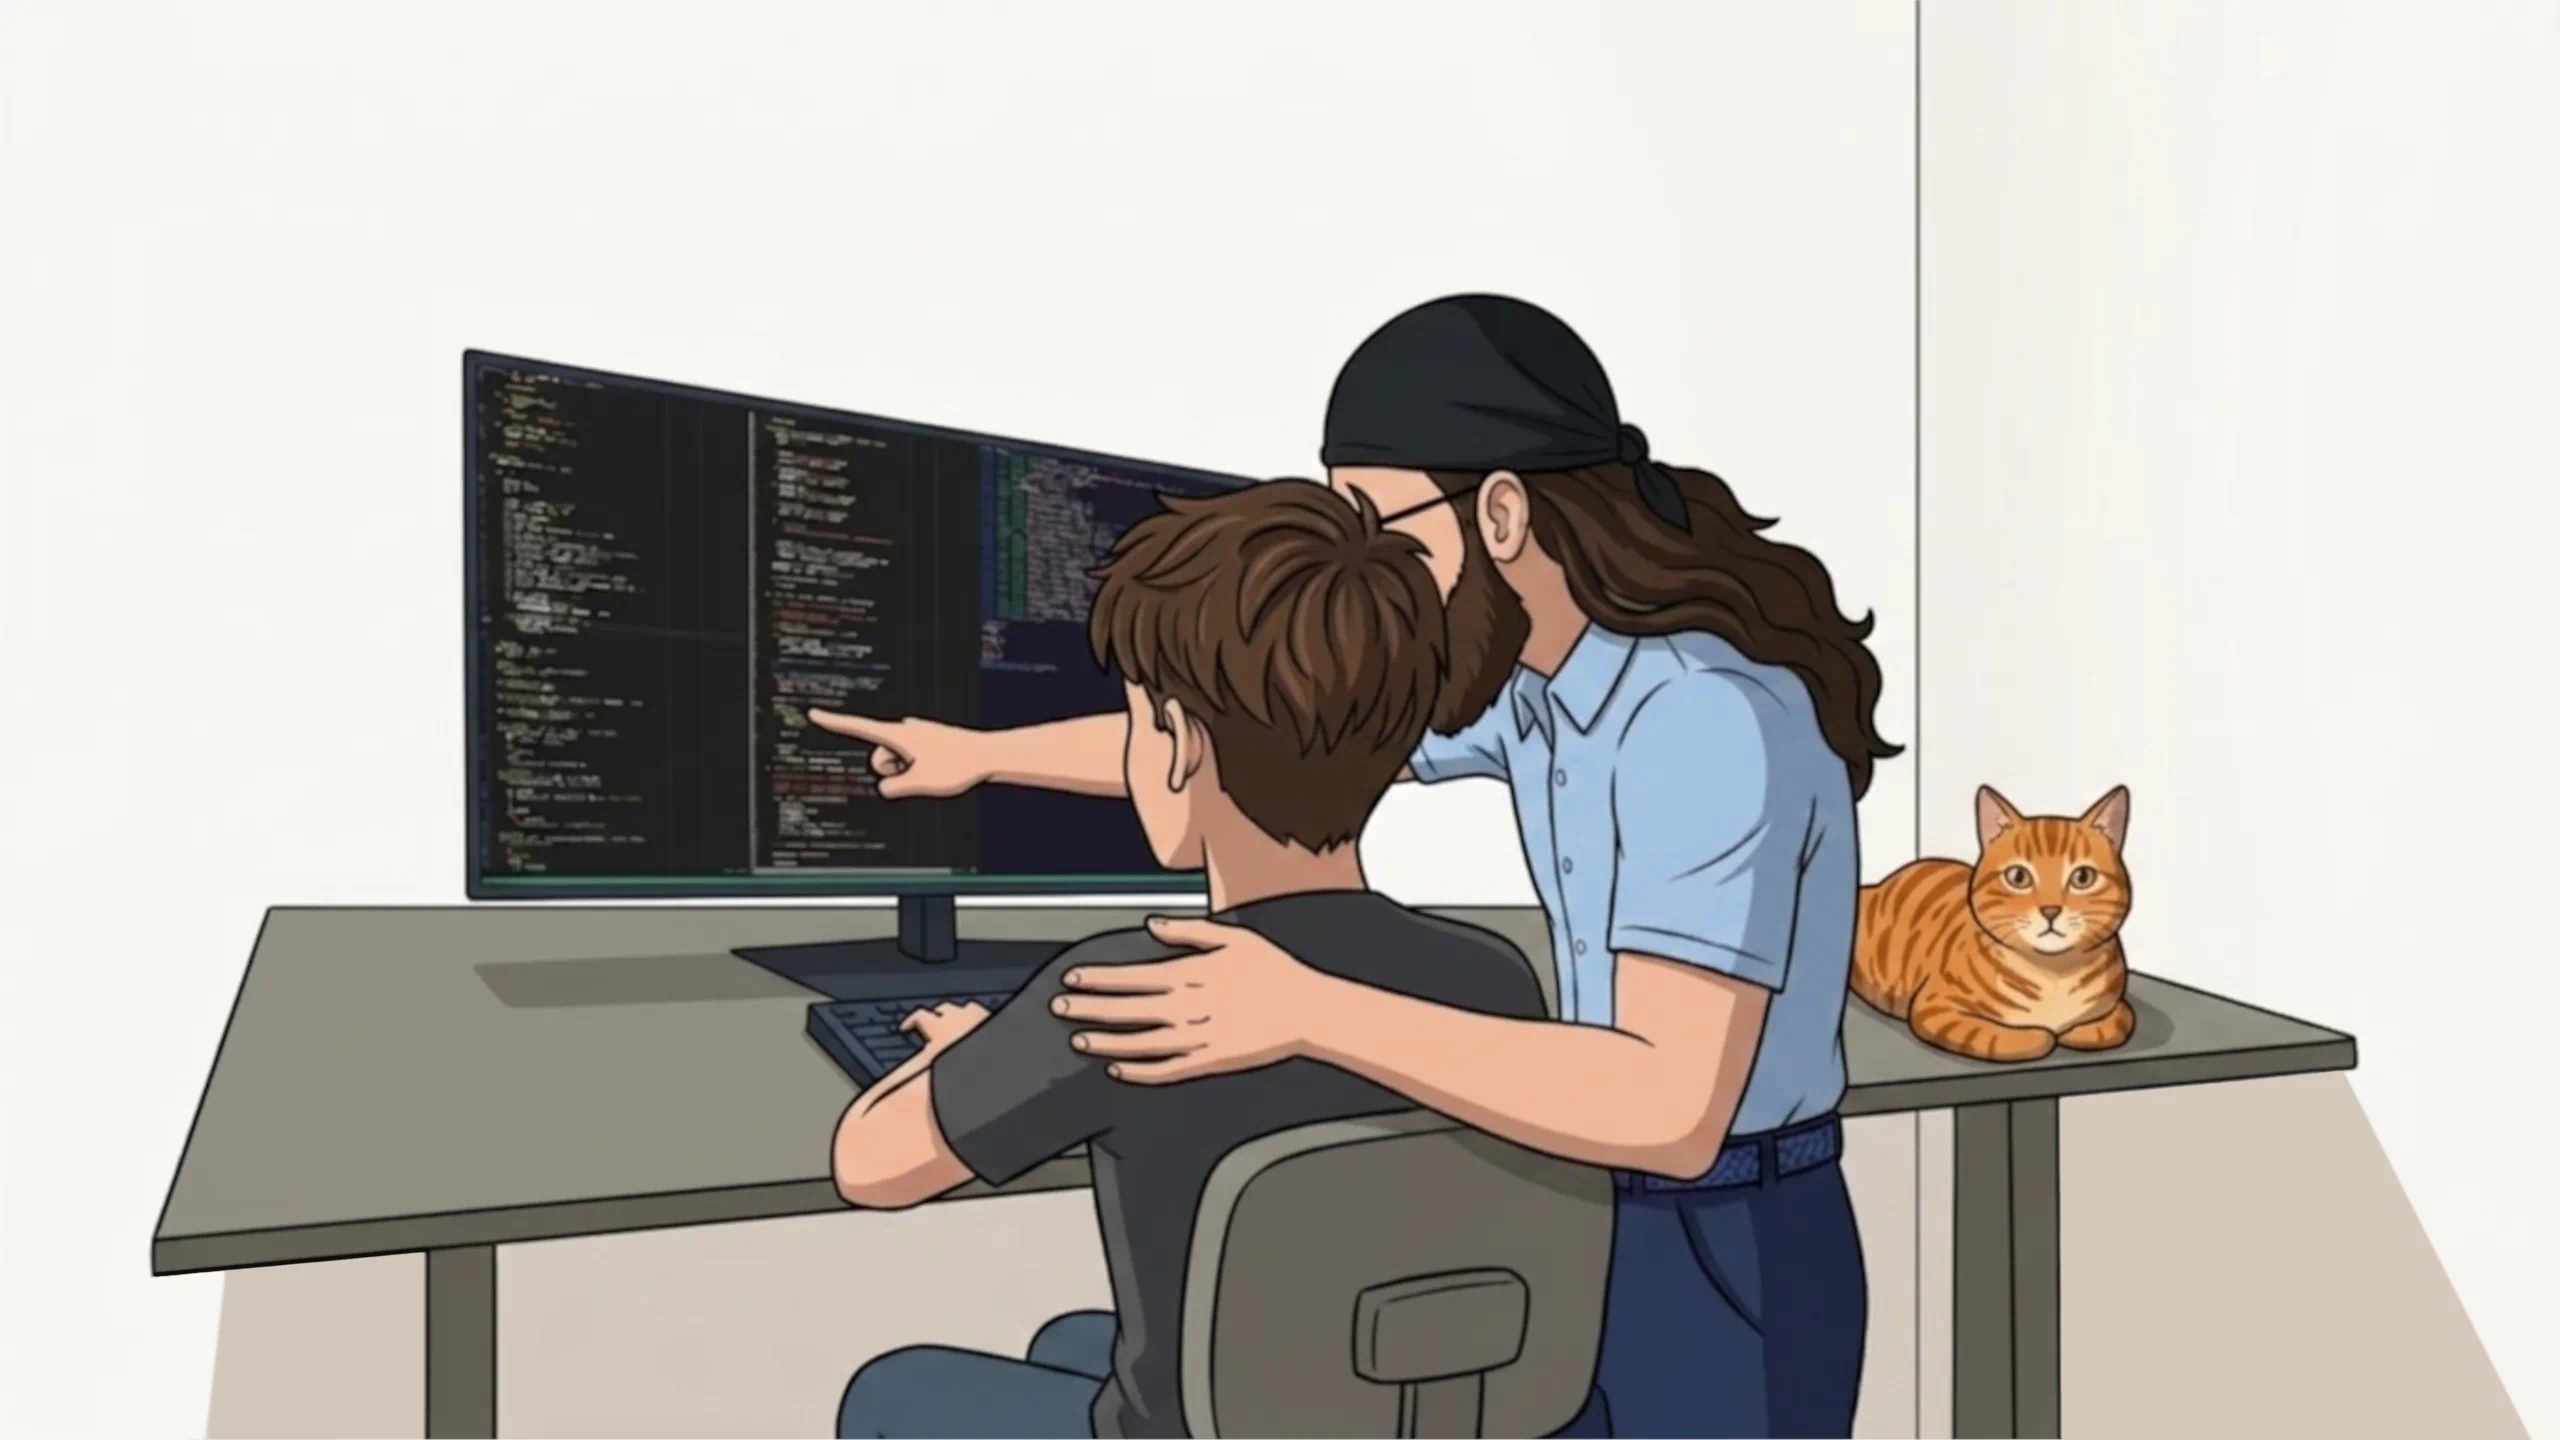
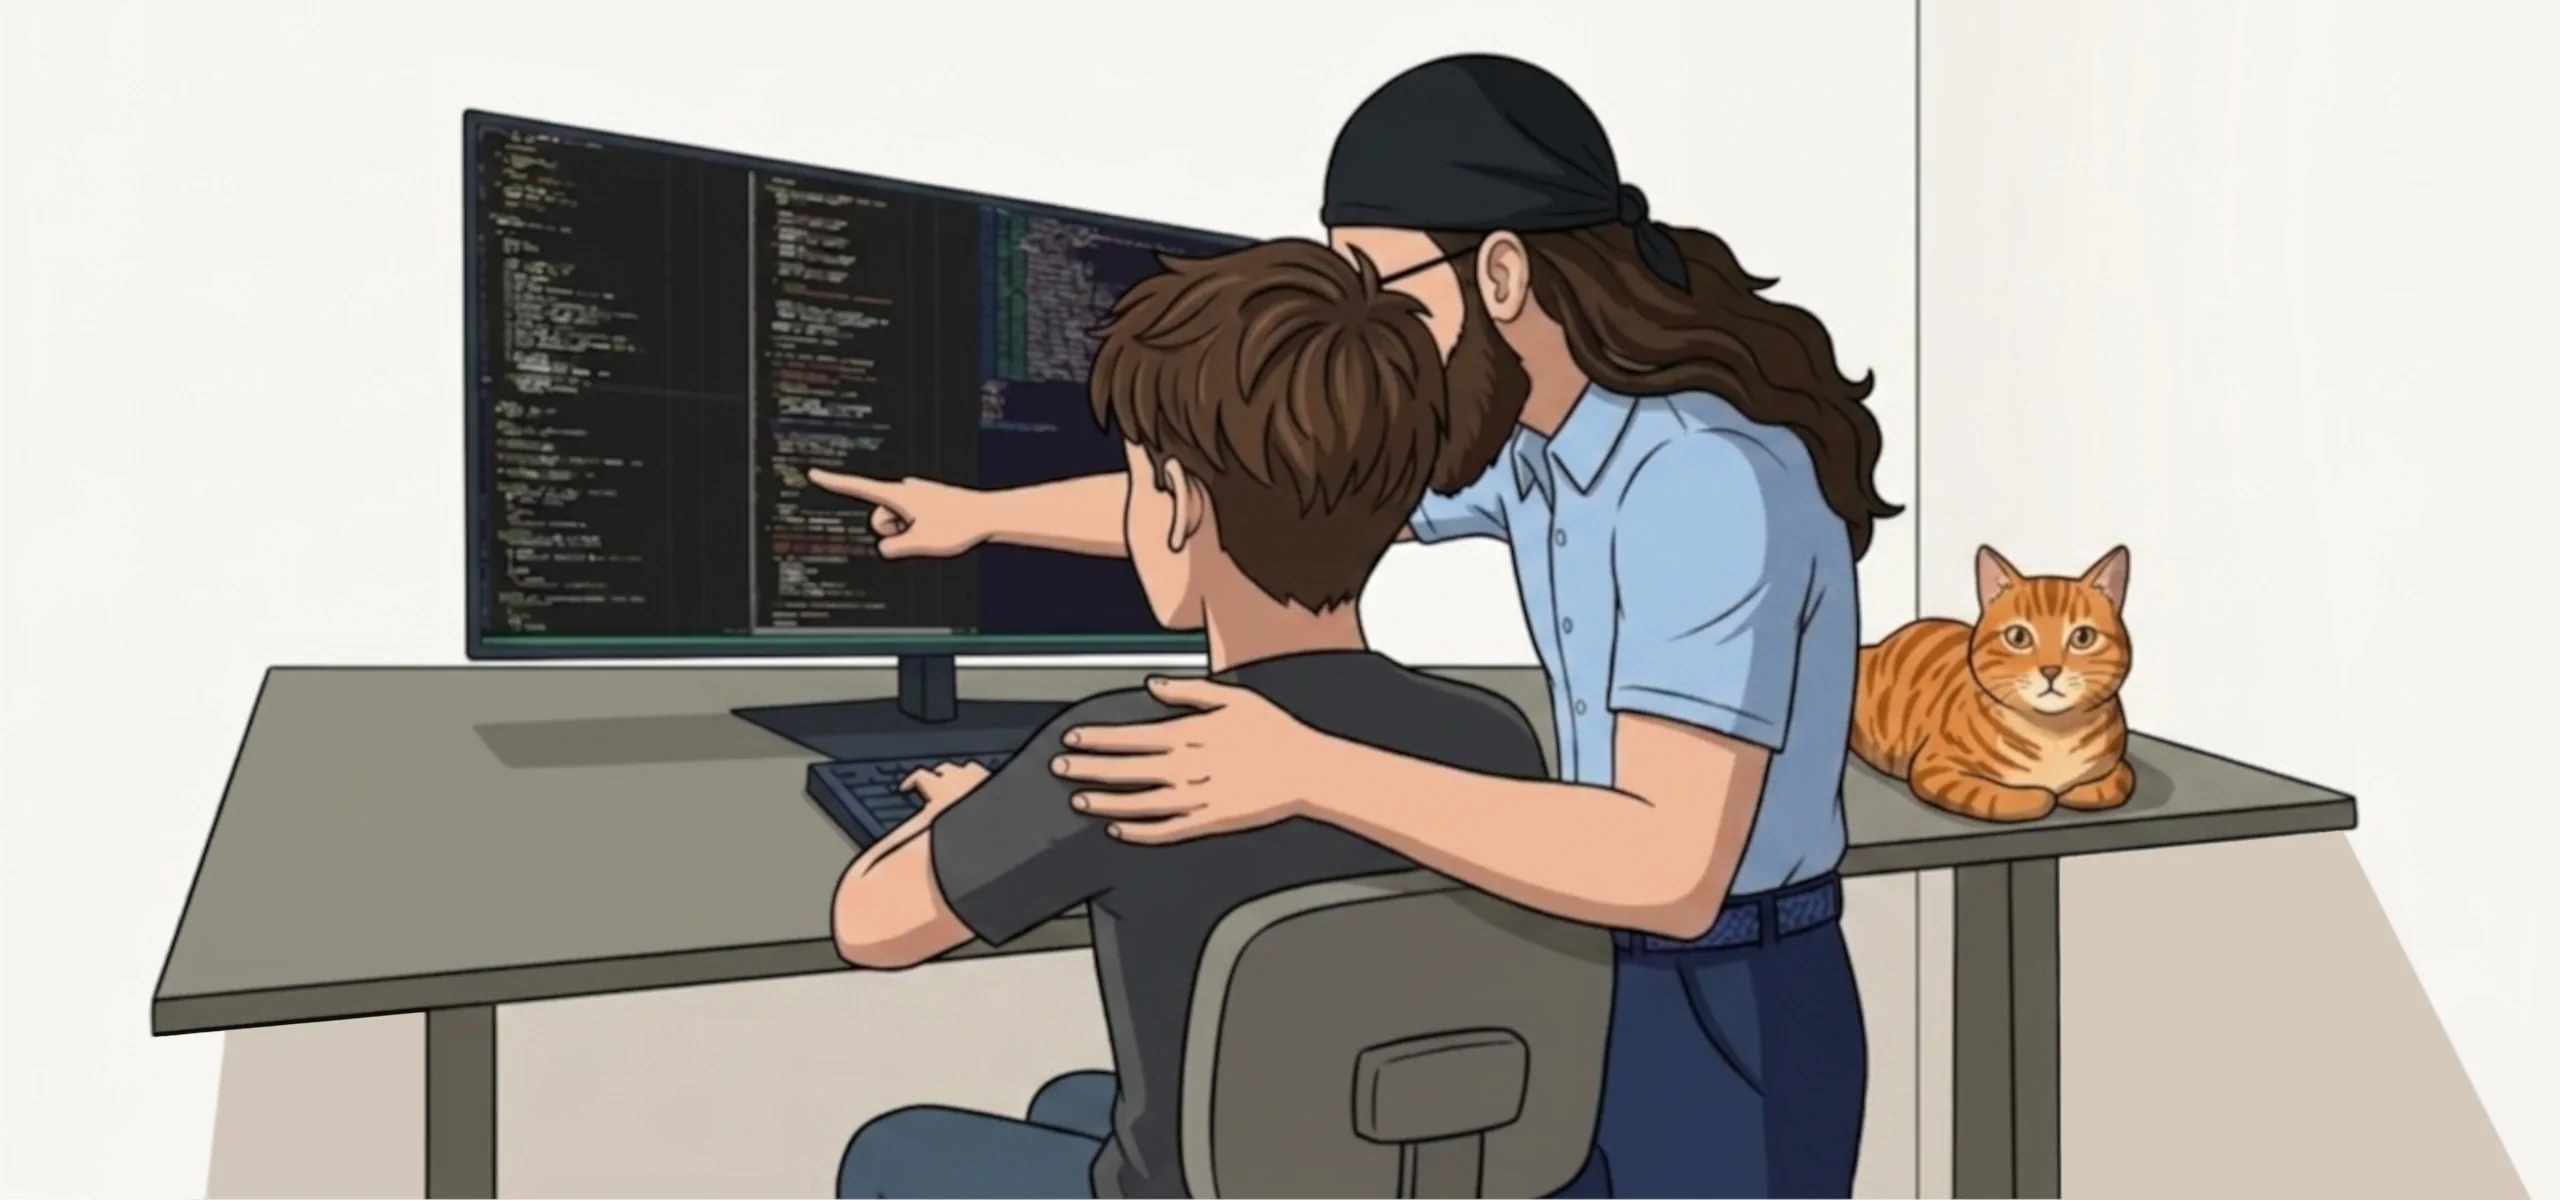
Remove empty space from hero image top

diff --git a/src/styles/sections.css b/src/styles/sections.css
@@ -1,8 +1,12 @@
 /* Hero Section - Image */
 .hero {
   position: relative;
-  width: 100vw;
-  height: calc(100dvh - 100px); /* Peek-ahead at next section */
+  width: 100%;
+  height: clamp(
+    420px,
+    calc(100dvh - var(--header-height) - 150px), /* Peek-ahead at next section */
+    calc(2 * 100vw) /* hard limit on the crop */
+  );
   container-type: size;
   display: flex;
   align-items: center;
@@ -41,19 +45,19 @@
   to { filter: blur(0); }
 }
 
-@container (max-aspect-ratio: 16/9) {
+@container (max-aspect-ratio: 16/7.5) { /* 16/7.5 is hero image aspect ratio - can't use vars here :( */
   .hero-image {
-    object-position: 40.74%;
+    object-fit: cover;
+    object-position: 40.743%;
   }
 
   .hero-image-container {
-    background-position: 40.74% 50%;
     background-size: cover;
+    background-position: 40.74% 50%;
   }
 
   @supports(object-position: 50cqi) {
     .hero-image {
-      object-fit: cover;
       --visible-img-part: calc(1cqi / 1cqh / var(--hero-img-aspect-ratio));
       object-position: calc(40.743%
         + 71.988% * clamp(0, calc(var(--visible-img-part) - 0.253), 0.187)

diff --git a/src/styles/variables.css b/src/styles/variables.css
@@ -1,6 +1,6 @@
 :root {
   /* Hardcoded constants */
-  --hero-img-aspect-ratio: 1.777777777;
+  --hero-img-aspect-ratio: 2.133333333;
 
   /* Layout */
   --content-max-width: 1200px;
@@ -27,5 +27,5 @@
   --line-height: 1.6;
 
   /* LQIP */
[2 lines of base64/hex data omitted]
 }